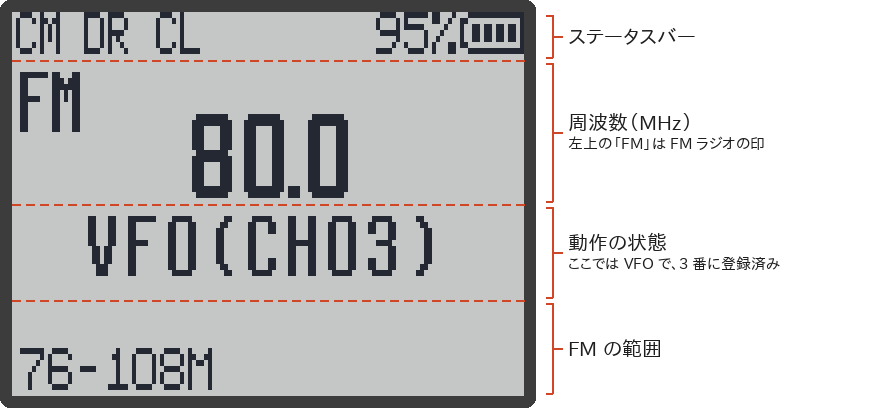
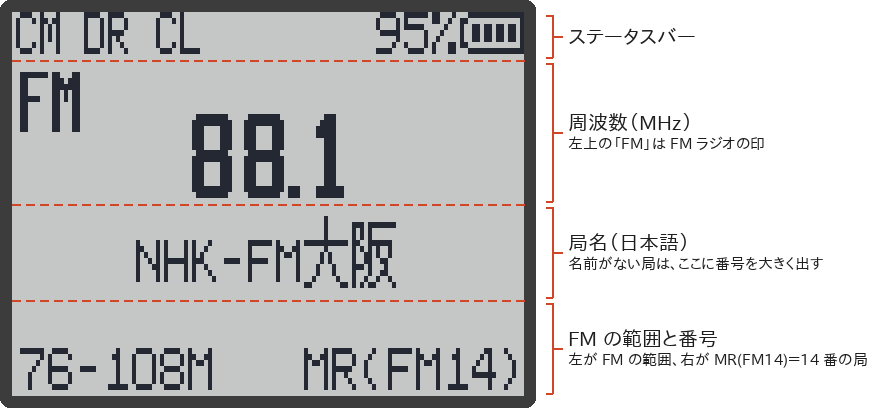
v2.0.0: 説明書を FM 100 局・日本語の局名・FM局タブに合わせる
- FMラジオ: 局番号を FM00〜FM99 に。局名の表示と、RxJa Tools の「FM局」タブの
  使い方を足した。自動スキャンが登録済みの局を消さないことを書いた。
  実機で確かめたものと、まだ確かめていないものを分けて注記した。
- 画面の絵（fm.png、fm-confirm.png）を、ファームの描画プログラムで作り直した。
- CHIRP: 「FM Broadcast Receiver」欄は v2.0.0 から本体の FM とつながらない。
- 純正ファームに戻す: 戻すと FM 局は旧い 48 局の場所から読まれる。
- トラブルシューティング、本体の仕様（SPI の地図、局数）、キー操作、受信モード、
  はじめに: 局数と自動スキャンの説明を直した。
- 版の表記を v2.0.0 に。README と Home の実機確認の範囲を更新した。

diff --git a/manual/トラブルシューティング.md b/manual/トラブルシューティング.md
@@ -10,7 +10,7 @@
 
 多くの困りごとは、次の 3 つで片づきます。
 
-1. **いま動いているファームが RxJa か**：`M` でメニューを開き、「本体情報（SysInf）」で `M`。`UVK1-RxJa` と `v1.3.0` などが出れば RxJa です（v0.1.2 までは `RxJa`）（→ [[メニュー一覧#本体情報sysinfのページ]]）。
+1. **いま動いているファームが RxJa か**：`M` でメニューを開き、「本体情報（SysInf）」で `M`。`UVK1-RxJa` と `v2.0.0` などが出れば RxJa です（v0.1.2 までは `RxJa`）（→ [[メニュー一覧#本体情報sysinfのページ]]）。
 2. **電池が十分にあるか**：電池が少ないと、画面に `電池残量低下` と出ます。書き込みや転送の前には、必ず充電してください。
 3. **ケーブルがデータ通信できるものか**：充電専用の USB-C ケーブルでは、パソコンが無線機を見つけられません。
 
@@ -90,7 +90,7 @@
 
 | 症状 | 原因と対処 | 詳しく |
 |---|---|---|
-| 登録してあった FM 局が全部消えた | **自動スキャン**（`F` → `*`、または `*` 長押し）をすると、48 局の登録はすべて消えて、見つかった局で登録し直されます。消えた登録は戻せないので、登録し直してください。1 局だけ探すときは `*` の短押し（手動スキャン）を使います。なお、v0.1.0 では「スキャン」を割り当てたサイドキー（初期化 `ALL` のあとは `SIDE2` の短押し）も FM ラジオの画面で自動スキャンになっていました。v0.1.1 からは手動スキャンなので、局は消えません | [[FMラジオ#自動スキャン]] |
+| 登録してあった FM 局が消えた | v2.0.0 からは、**自動スキャン**（`F` → `*`、または `*` 長押し）をしても、登録済みの局は消えません（空いている番号に追加します）。v1.3.0 までは、自動スキャンで登録の全部が消えていました。メニューの初期化（`ALL`）をすると、FM 局も消えます（`VFO` の初期化では消えません）。v0.1.0 では「スキャン」を割り当てたサイドキーも FM ラジオの画面で自動スキャンになっていましたが、v0.1.1 からは手動スキャンです | [[FMラジオ#自動スキャン]] |
 | 自動スキャンが止まらない・同じ局ばかり登録される | v0.1.0 で FM の範囲が `76-90M` か `64-76M` のときに起きる不具合です。v0.1.1 で直したので、ファームを新しくしてください（→ [[ファームの書き込み]]）。v0.1.0 のままのときは、`*` か `EXIT` で止め、範囲を `76-108M` にしてからやり直してください | [[FMラジオ#自動スキャン]] |
 | ワイド FM（90〜95 MHz）が聞けない・合わせられない | FM の範囲が `76-90M` になっています。`F` → `1`（または `1` 長押し）で `76-108M` にしてください。周波数の入力やスキャンは、選んでいる範囲の中だけで働きます | [[FMラジオ#fm-の範囲バンドを選ぶ]] |
 | FM ラジオが途中で止まり、メイン画面になる | 仕様です。ふつうの受信（A/B の周波数）に信号が入ると、そちらが優先されます。信号が終わって 5 秒たつと、FM ラジオに戻ります | [[FMラジオ#ふつうの受信との関係]] |

diff --git a/manual/Home.md b/manual/Home.md
@@ -8,7 +8,7 @@ UVK1-RxJa（以下 RxJa）は、Quansheng **UV-K1** / **UV-K1(8)** / **UV-K5 V3*
 この説明書では、書き込み方から毎日の操作、メニュー全 53 項目の意味、困ったときの対処までを説明します。
 
 > [!WARNING]
-> v1.2.0 までは、作者の UV-K1 で書き込み・日本語の表示・受信・日本語のチャンネル名を確かめています。v1.3.0 は F4HWN v6.3.0 の変更を取り込んだ版で、書き込み・起動・本体情報の版表示・メニューの日本語表示・受信音・チャンネルスキャン・スペクトラム・FM ラジオ・側キーの TONE CALL（N/A 表示）を、作者の UV-K1 で確かめています。**受信ログ（記録の保存場所が変わりました）は、まだ確かめていません。**それでも、ファームの書き込みは自己責任でお願いします。最悪の場合、無線機が起動しなくなります。
+> v1.2.0 までは、作者の UV-K1 で書き込み・日本語の表示・受信・日本語のチャンネル名を確かめています。v1.3.0 は F4HWN v6.3.0 の変更を取り込んだ版で、書き込み・起動・本体情報の版表示・メニューの日本語表示・受信音・チャンネルスキャン・スペクトラム・FM ラジオ・側キーの TONE CALL（N/A 表示）を、作者の UV-K1 で確かめています。**受信ログ（記録の保存場所が変わりました）は、まだ確かめていません。**v2.0.0 は FM ラジオを 100 局にして局名を付けられるようにした版で、作者の UV-K1 で、書き込み（ファーム本体）、起動、本体情報の版表示、FM 局の保存・呼び出し、自動スキャンで登録済みの局が消えないこと、日本語の局名の表示、RxJa Tools の「FM局」タブの書き込み（大阪府の 18 局）を確かめています。**メニューの初期化（ALL）での FM 局の消去、ディエンファシス（50µs）の音の違い、受信ログは、まだ実機で確かめていません。**それでも、ファームの書き込みは自己責任でお願いします。最悪の場合、無線機が起動しなくなります。
 > 書き込んだら、**まず校正データのバックアップ**をとってください（[[ファームの書き込み]] で説明します）。
 
 > [!IMPORTANT]
@@ -51,6 +51,6 @@ UVK1-RxJa（以下 RxJa）は、Quansheng **UV-K1** / **UV-K1(8)** / **UV-K5 V3*
 
 ## 版について
 
-この説明書は **UVK1-RxJa v1.3.0**（F4HWN Fusion v6.3.0 ベース）に合わせて書いています。ファイルは [Releases](https://github.com/dosei/uvk1-japanese/releases) からダウンロードできます。
+この説明書は **UVK1-RxJa v2.0.0**（F4HWN Fusion v6.3.0 ベース）に合わせて書いています。ファイルは [Releases](https://github.com/dosei/uvk1-japanese/releases) からダウンロードできます。
 
 操作の多くは元の F4HWN と同じです。英語でよければ [F4HWN の Wiki](https://github.com/armel/uv-k1-k5v3-firmware-custom/wiki) にも詳しい説明があります（ただし送信関係の説明は RxJa には当てはまりません）。

diff --git a/manual/はじめに.md b/manual/はじめに.md
@@ -56,7 +56,7 @@ RxJa のファイル（ファーム本体と日本語データ）は、RxJa Tool
 <details>
 <summary>ファイルを自分でダウンロードして書き込みたいとき（別の方法）</summary>
 
-RxJa Tools の一覧を使わずに書き込みたいときは、[Releases](https://github.com/dosei/uvk1-japanese/releases) の最新版（いまは `rxja-v1.3.0`）から、次のファイルをダウンロードします。
+RxJa Tools の一覧を使わずに書き込みたいときは、[Releases](https://github.com/dosei/uvk1-japanese/releases) の最新版（いまは `rxja-v2.0.0`）から、次のファイルをダウンロードします。
 
 | ファイル | 中身 | 送り先 |
 |---|---|---|
@@ -113,7 +113,7 @@ RxJa Tools の一覧を使わずに書き込みたいときは、[Releases](http
 - メモリーチャンネル 1024 個、名前付き（日本語も可。全角 5 文字・半角 10 文字まで。v1.1.0 から）
 - スキャンリスト 24 本＋全チャンネル＋選んだリストだけの**混合**（v1.2.0 から）、優先チャンネル 2 つ、範囲スキャン、除外 → [[スキャン]]
 - バンドスコープ（スペクトラム） → [[スペクトラム]]
-- FM ラジオ（76〜108MHz、48 局メモリー） → [[FMラジオ]]
+- FM ラジオ（76〜108MHz、100 局メモリー） → [[FMラジオ]]
 - 受信ログ（いつ・どの周波数を・どのくらいの強さで受信したか） → [[受信ログ]]
 - トーンスキャン（CTCSS / DCS の検索）、周波数キャッチャー
 - 懐中電灯、キーロック、バックライトの細かい設定、画面反転、コントラスト

diff --git a/manual/CHIRP.md b/manual/CHIRP.md
@@ -76,7 +76,7 @@ CHIRP を起動するたびに、この手順が必要です。
 - **Basic Settings / Advanced Settings**：メニューにある設定。RxJa で隠している送信関係の項目も並んでいますが、変更しても送信はできません。
 - **Programmable Keys**：サイドキーの割り当て（→ [[キー操作]]）。送信関係の機能を割り当てた場合、そのキーを押すと「ピピッ」と鳴って何もしません。
 - **Scan Lists**：スキャンリストの名前など。
-- **FM Broadcast Receiver**：FM ラジオのメモリー（→ [[FMラジオ]]）。
+- **FM Broadcast Receiver**：**v2.0.0 からは使いません。** FM ラジオのメモリーは、v2.0.0 で別の場所（100 局）に移したので、ここに出る 48 局は、本体の FM ラジオとつながっていません。ここを書き換えても、本体の FM 局は変わりません。FM 局の編集は、本体のキー操作で行います（→ [[FMラジオ]]）。
 - **Message Line 1 / 2**：起動画面に出すメッセージ（英数字）。メニューの「起動表示（POnMsg）」が `MESSAGE` か `ALL` のときに表示されます。両方とも空欄にすると、代わりに「ようこそ」と表示されます（日本語データが入っているとき）。
 - **Calibration**：**触らないでください。** 校正データです。
 

diff --git a/manual/マルチブート.md b/manual/マルチブート.md
@@ -23,7 +23,7 @@
 - ファームが実際に動くのは、無線機の中の「内蔵フラッシュ」です。スロットは、外付けのフラッシュに置いてある**控え**です。
 - 起動のときにスロットを選ぶと、その控えが内蔵フラッシュに書き写されて、そのファームで起動し直します。
 - ふつうの手順でファームを書き込んだあとの最初の起動では、画面に `Init Main` と出て、いま書き込んだファームが `M` にコピーされます。**終わるまで電源を切らないでください。**
-- スロットに入れられるのは、1 つ **118 KiB**（120,832 バイト）までです。RxJa（`f4hwn.rxja.bin`、v1.3.0 で 108,968 バイト）は入ります。
+- スロットに入れられるのは、1 つ **118 KiB**（120,832 バイト）までです。RxJa（`f4hwn.rxja.bin`、v2.0.0 で 109,140 バイト）は入ります。
 
 > [!IMPORTANT]
 > スロットに入れてよいのは、**マルチブートに対応した F4HWN v6.0.0 以降**のファームだけです。v5.x や純正ファームなどを入れて切り替えると、動くことは動きますが、**起動時の選択画面が出なくなり、ほかのスロットに戻れません**。そうなったら、ふつうの手順で RxJa を書き込み直してください（→ [[ファームの書き込み]]）。

diff --git a/manual/受信モード.md b/manual/受信モード.md
@@ -152,7 +152,7 @@ FM 放送を聞くモードです。ほかの 3 つのモードとは別の、FM
 
 - `F` → `0`（または `0` 長押し）でつける / 消す。`EXIT` でも消えます。
 - 範囲は `F` → `1` で切り替え。日本では `76-108M` がおすすめです（ワイド FM も入ります）。
-- 周波数を直接選ぶ `VFO` と、登録した局（48 局まで）を選ぶ `MR` があり、`F` → `3` で切り替えます。ふつうの受信の周波数モード / チャンネルモードとは別のもので、登録した局もチャンネルとは別に保存されます。
+- 周波数を直接選ぶ `VFO` と、登録した局（100 局まで）を選ぶ `MR` があり、`F` → `3` で切り替えます。ふつうの受信の周波数モード / チャンネルモードとは別のもので、登録した局もチャンネルとは別に保存されます。
 - 局を探す手動スキャンと、見つけた局を全部登録する自動スキャンがあります。
 
 くわしくは [[FMラジオ]] を見てください。

diff --git a/manual/キー操作.md b/manual/キー操作.md
@@ -159,7 +159,7 @@
 | 周波数（VFO）のスキャン中、範囲スキャン中 | スキャンを止める |
 | チャンネルのスキャン中 | **次のスキャンリストに切り替える**（止まりません。止めるときは M か EXIT） |
 | トーンの検索中 | 何もしない |
-| FM ラジオの画面 | **FM の自動スキャン**（登録してある FM の 48 局がすべて消えます → [[FMラジオ#自動スキャン]]）。自動スキャン中なら止める |
+| FM ラジオの画面 | **FM の自動スキャン**（登録してある局は消えず、空いている番号に追加します → [[FMラジオ#自動スキャン]]）。自動スキャン中なら止める |
 
 **FM ラジオの画面で使えない機能**：送信出力、モニター、VFO A/B、VFO メモリ、変調切替、受信方式、メインのみ、帯域幅切替、受信音質（「ピピッ」と鳴ります）。
 
